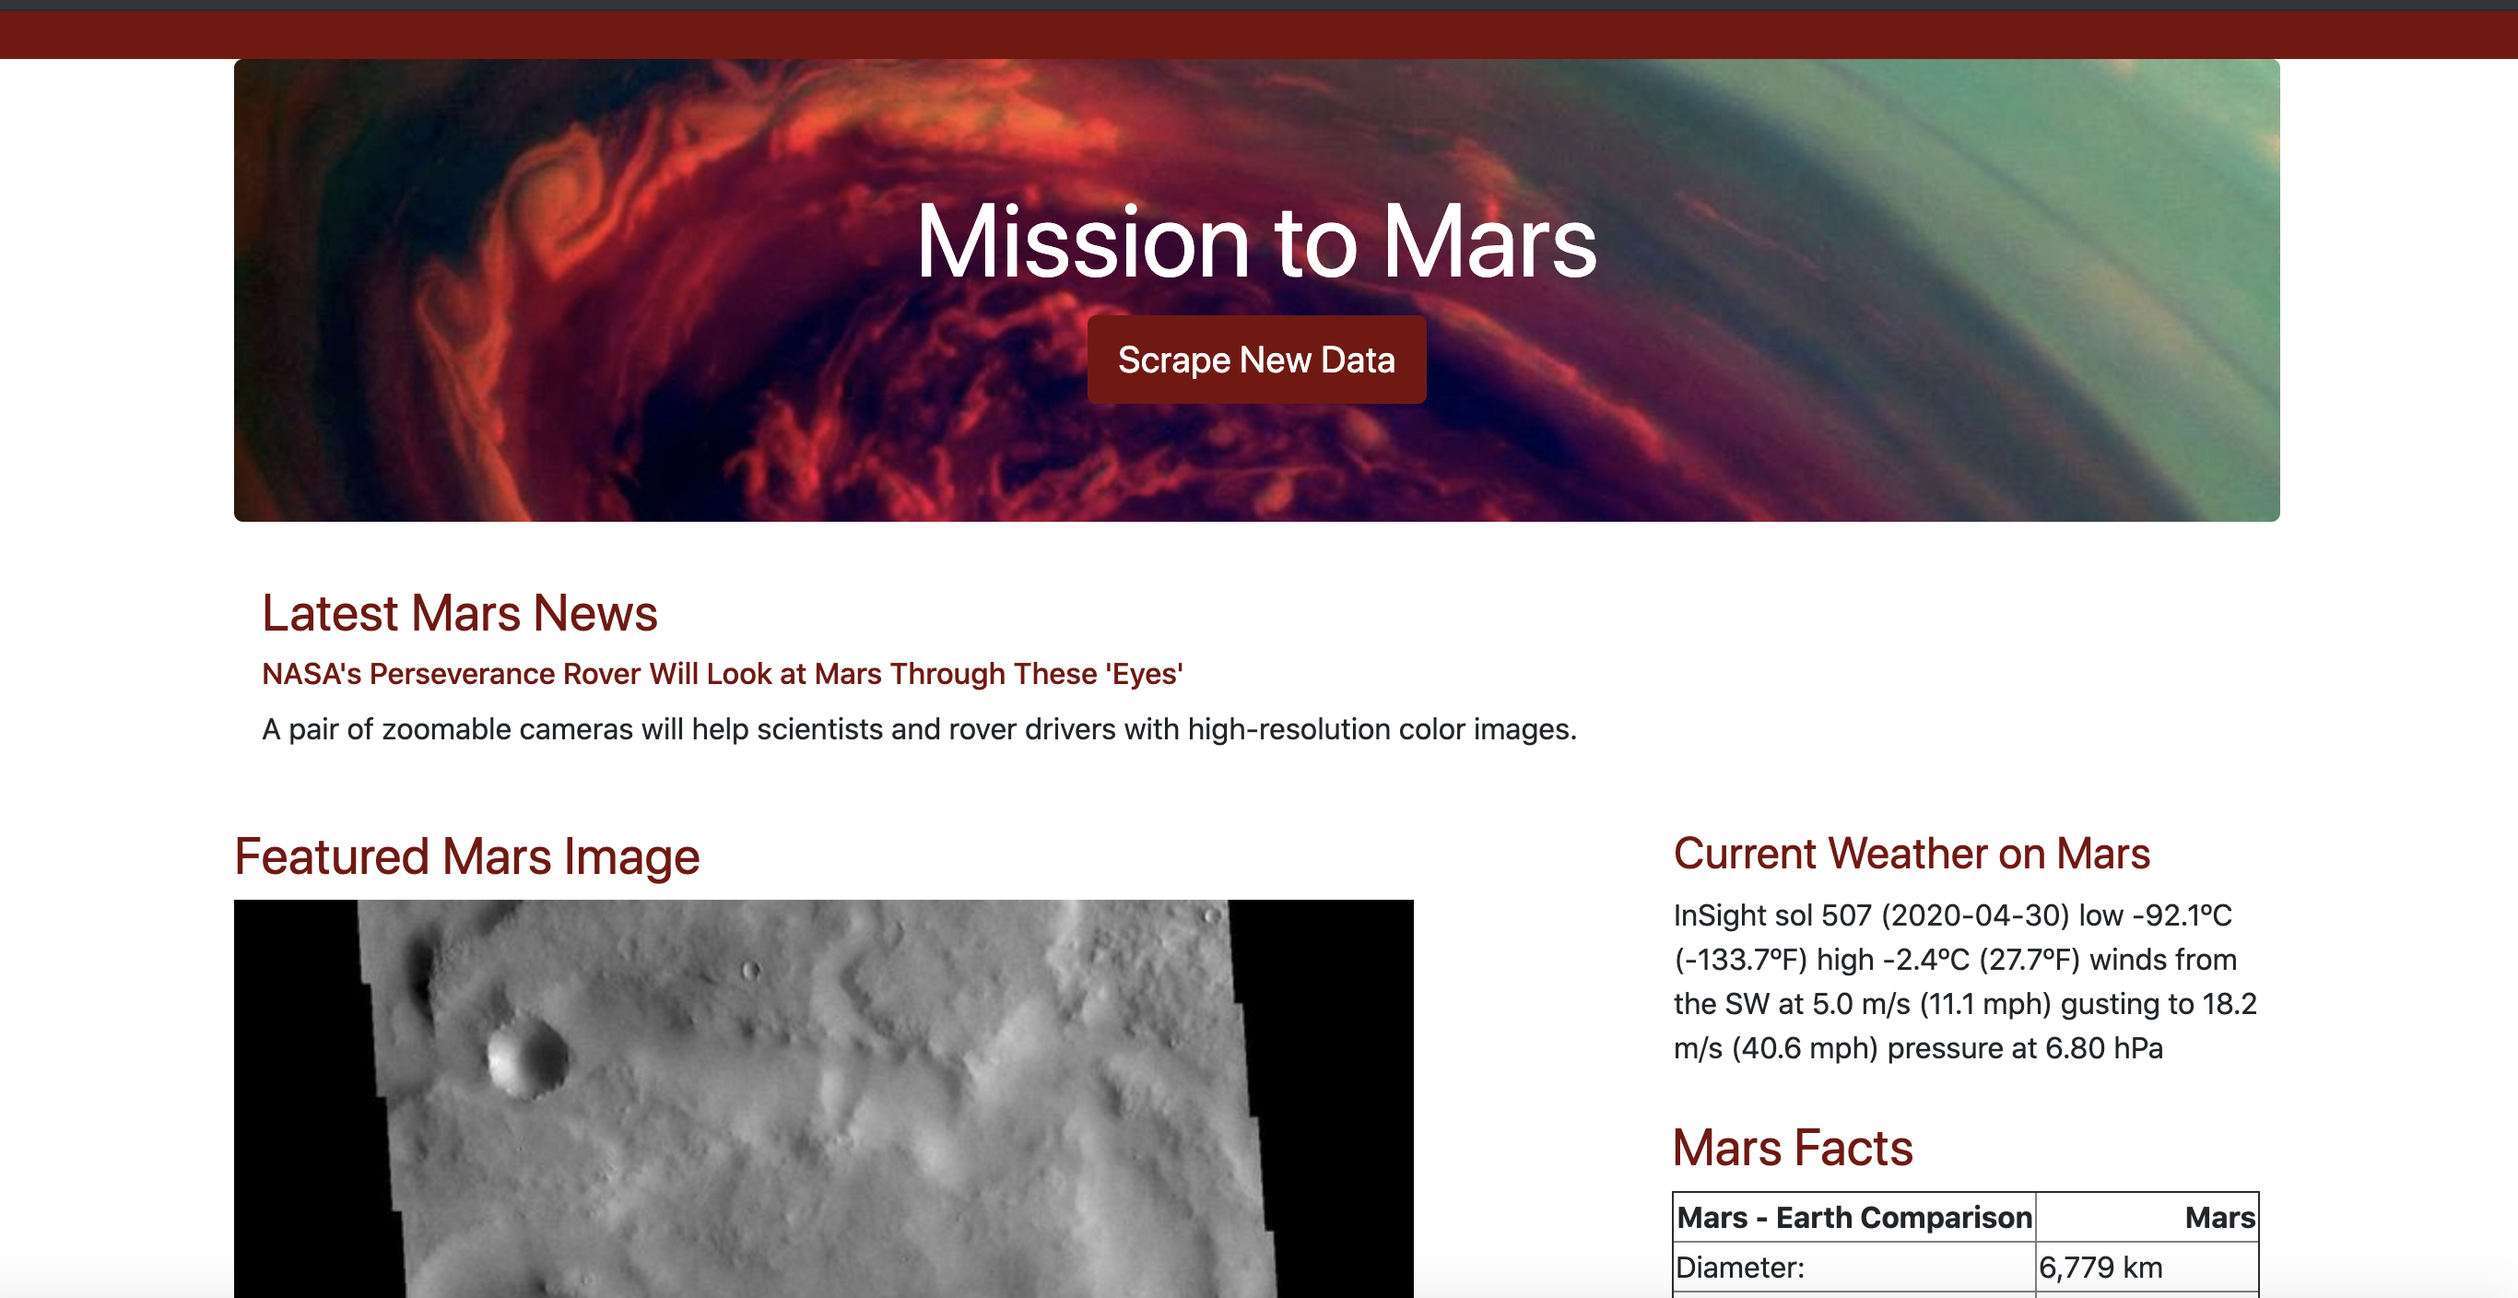
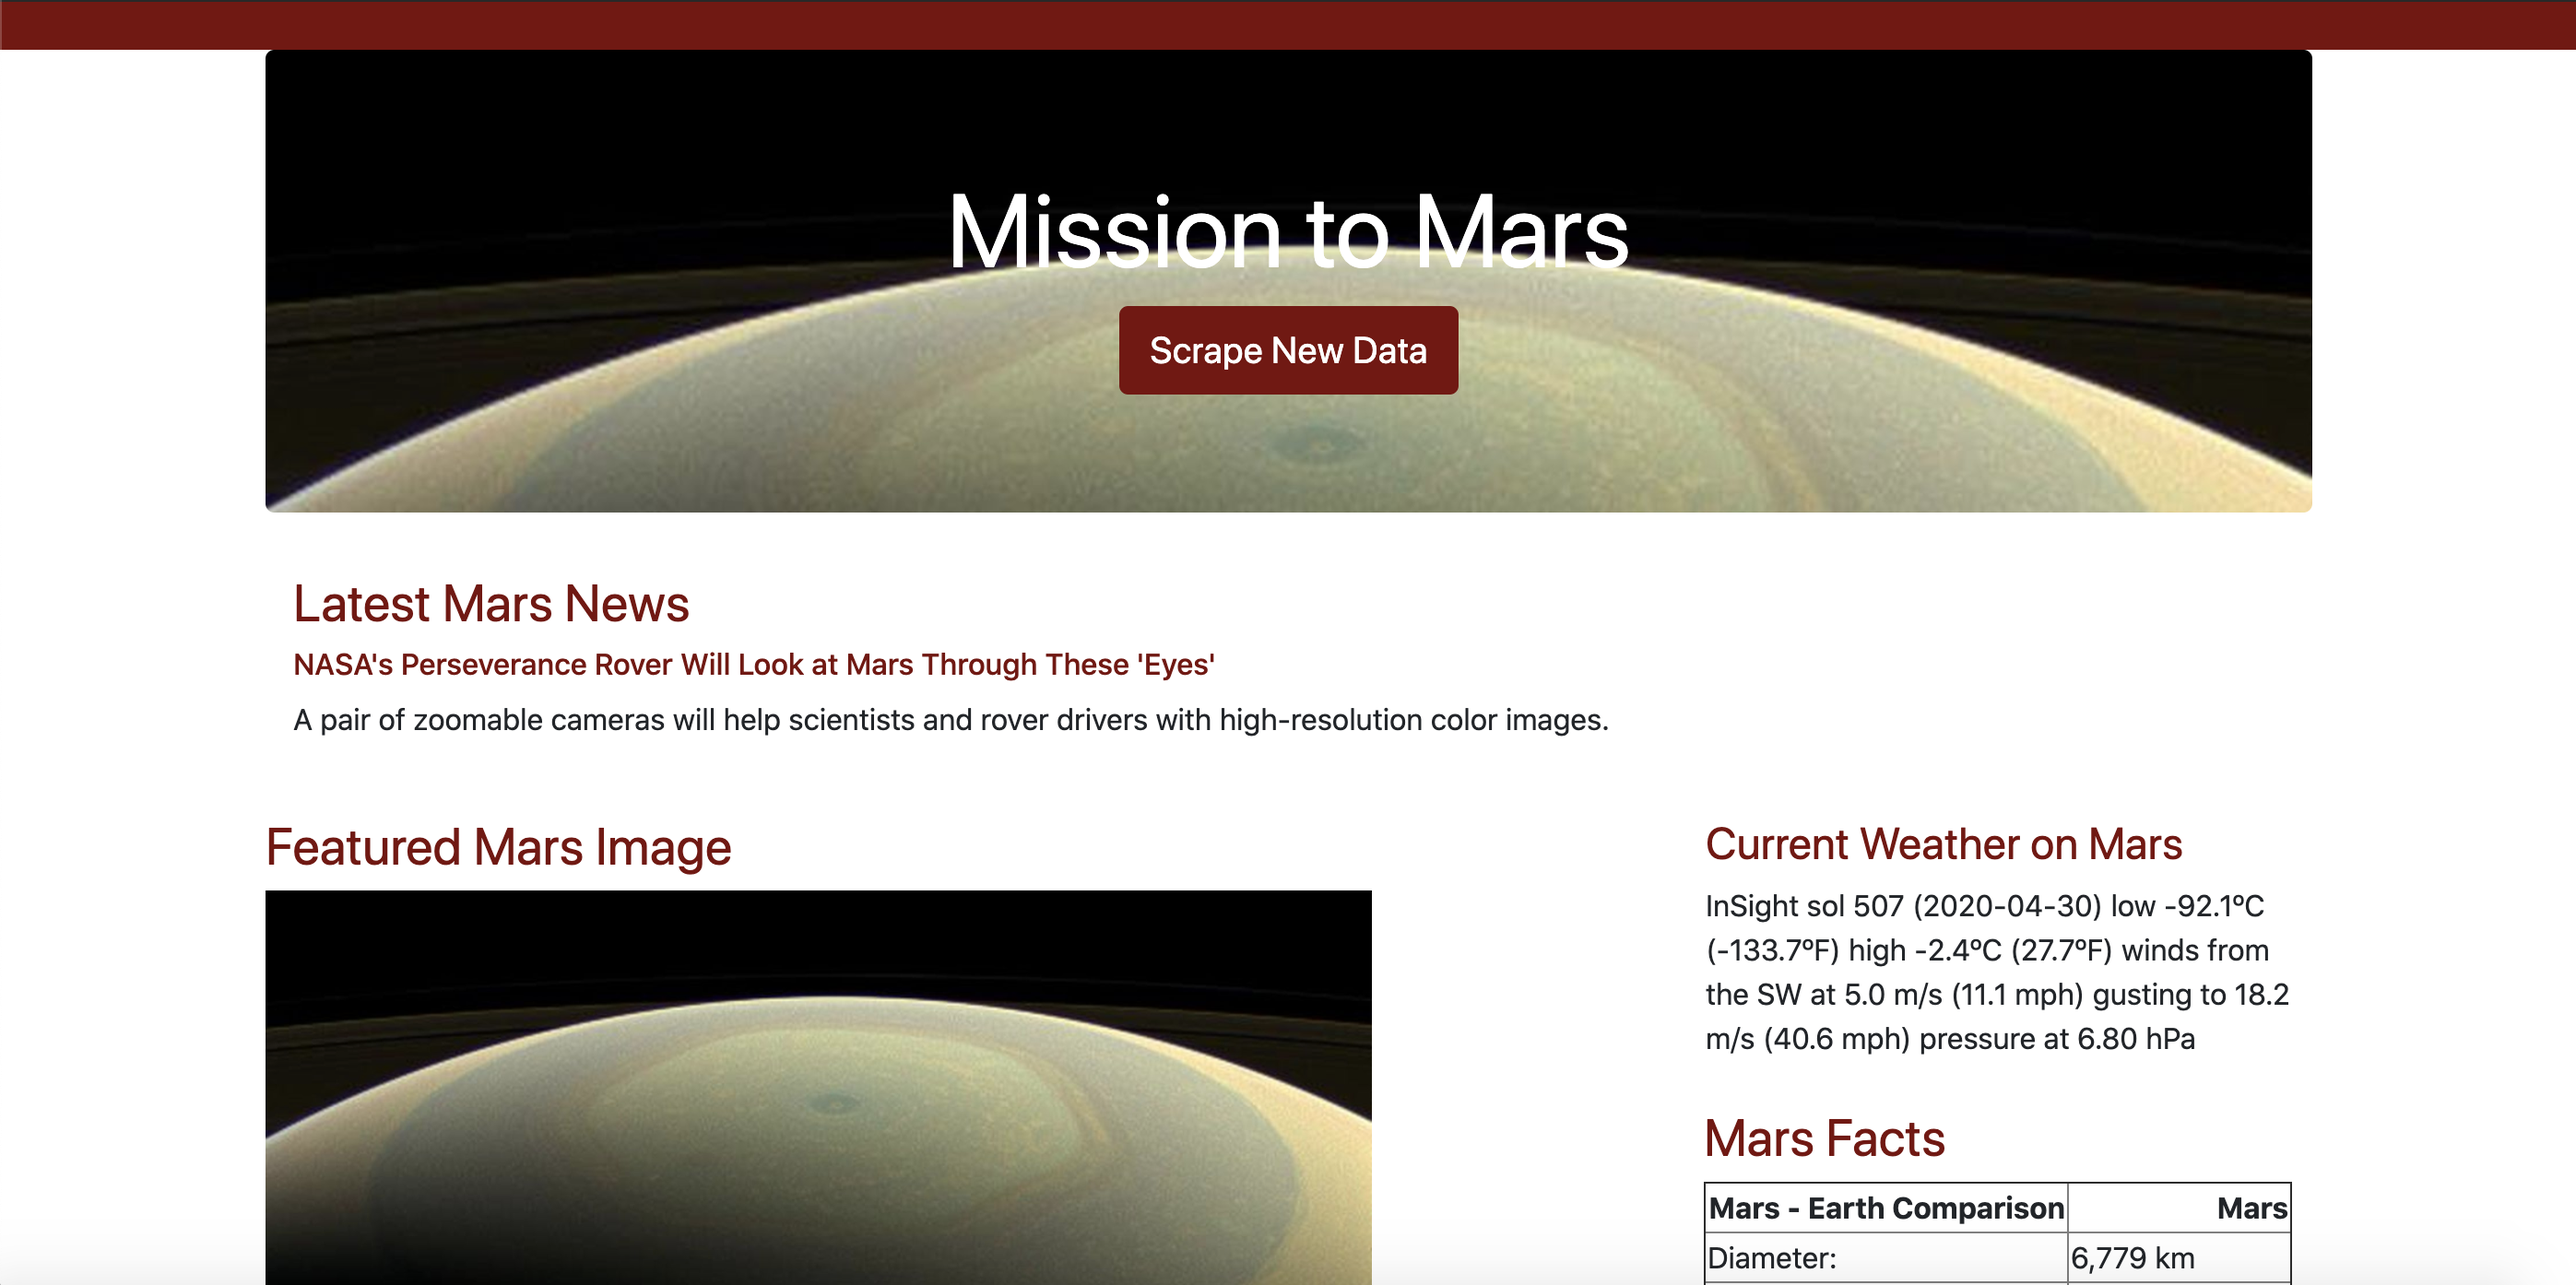
little change

diff --git a/Missions_to_Mars/templates/index.html b/Missions_to_Mars/templates/index.html
@@ -20,7 +20,7 @@
     <div class="container">
 
         <!-- Banner -->
-        <div class="jumbotron text-center" style="background-image: url({{mars.main_image_url}}); background-size: 100%; height: 100%; ">
+        <div class="jumbotron text-center" style="background-image: url({{mars.feature_image_url}}); background-size: 100%; height: 100%; ">
             <h1 class="display-4 text-white"><b>Mission to Mars</b></h1>
             <a class="btn btn-lg text-white" style="background-color: rgb(121, 11, 11);" href="/scrape" role="button">Scrape New Data</a>
         </div>
@@ -37,13 +37,13 @@
         <br>
         <!-- Image-->
         <div class="row">
-            <div class="col-lg-8 col-md-8 col-sm-12">
+            <div class="col-l-8 col-md-8 ">
                 <h3 style="color: rgb(121, 11, 11);;">Featured Mars Image</h3>
-               <img src="{{ mars.feature_image_url }}">
+               <img style="width: 600px" src="{{ mars.feature_image_url }}">
             </div>
             <br>
             <!-- Weather-->
-            <div class="col-lg-4 col-sm-12">
+            <div class="col-l-4 col-md-4 ">
                <div class="card", style="border-color: white;">
                   <h4 style="margin-left: 20px; color: rgb(121, 11, 11);">Current Weather on Mars</h4>
                   <div style="margin-left: 20px ;">{{ mars.mars_weather }}</div>

diff --git a/Missions_to_Mars/scrape_mars.py b/Missions_to_Mars/scrape_mars.py
@@ -43,17 +43,18 @@ def scrape():
     html = browser.html
     soup = BeautifulSoup(html, 'html.parser')
 
-    main_image_items = soup.find('article', class_="carousel_item")
-    main_image= main_image_items['style'].split("'")[1]
-    main_image_url=main_url + main_image
-    
-    print(main_image_url)
-
-    feature_image_items = soup.find('li', class_="slide")
-    feature_image = soup.find("img", class_="thumb")["src"]
-    feature_image_url = main_url + feature_image
+    feature_image_items = soup.find('article', class_="carousel_item")
+    feature_image= feature_image_items['style'].split("'")[1]
+    feature_image_url=main_url + feature_image
 
     print(feature_image_url)
+
+    last_image_items = soup.find('li', class_="slide")
+    last_image = last_image_items.find("img", class_="thumb")["src"]
+    last_image_url = main_url + last_image
+    
+    print(last_image_url)
+
 
 
     # Mars Facts
@@ -129,7 +130,7 @@ def scrape():
     mars_data= {
         "news_title": news_title,
         "news_p": news_p,
-        "main_image_url": main_image_url,
+        "last_image_url": last_image_url,
         "feature_image": feature_image,
         "feature_image_url": feature_image_url,
         "mars_weather": mars_weather,
